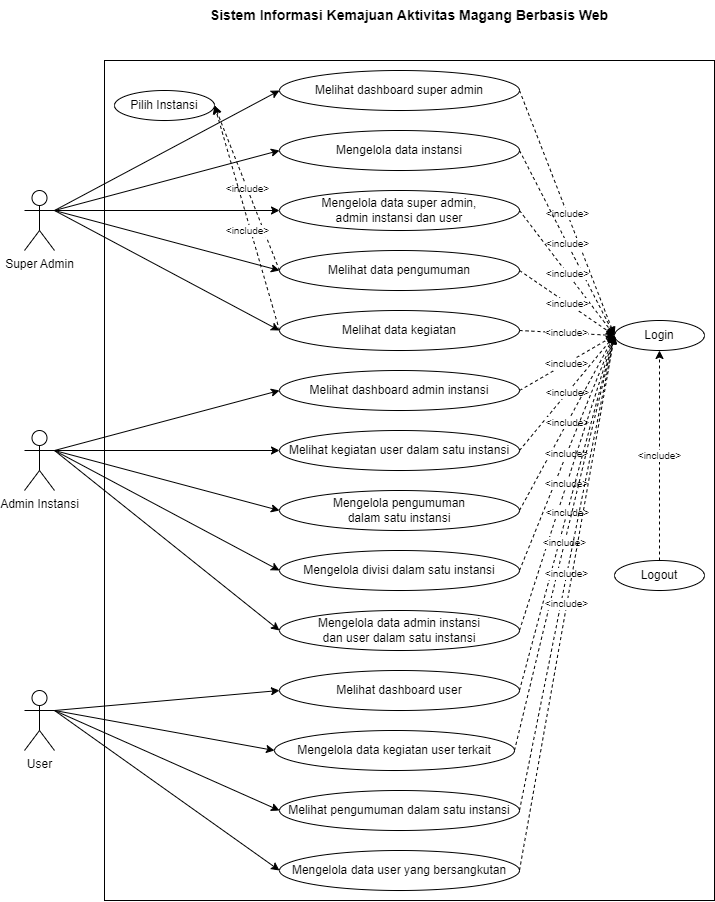
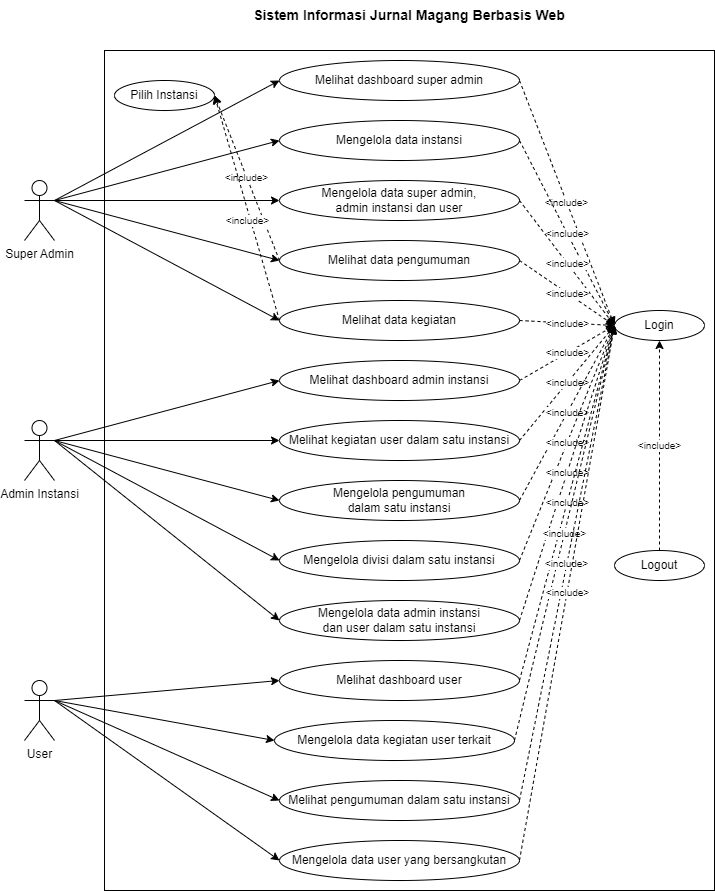
diagram and word selection commit

diff --git a/projek-01.md b/projek-01.md
@@ -1,6 +1,6 @@
-# Sistem Informasi Kemajuan Aktivitas Magang Berbasis Web
+# Sistem Informasi Jurnal Magang Berbasis Web
 
-<p align="justify">&nbsp;&nbsp;&nbsp;&nbsp;&nbsp;&nbsp;&nbsp;&nbsp;&nbsp;&nbsp;&nbsp;&nbsp;&nbsp;&nbsp;&nbsp;Projek Praktek Kerja Lapangan Sistem Informasi Kemajuan Aktivitas Magang Berbasis Web merupakan sebuah aplikasi yang didesain untuk memudahkan antara peserta magang, admin instansi terkait dan super admin dalam melakukan pencatatan kegiatan sehari-hari dalam bentuk digital. Sistem ini akan merekam kegiatan yang ditambahkan oleh peserta magang melalui logbook atau jurnal dan memberikan akses kepada admin instansi yang bersesuain dengan peserta tersebut untuk memantau progres setiap harinya.
+<p align="justify">&nbsp;&nbsp;&nbsp;&nbsp;&nbsp;&nbsp;&nbsp;&nbsp;&nbsp;&nbsp;&nbsp;&nbsp;&nbsp;&nbsp;&nbsp;Projek Praktek Kerja Lapangan Sistem Informasi Jurnal Magang Berbasis Web merupakan sebuah aplikasi yang didesain untuk memudahkan antara peserta magang, admin instansi terkait dan super admin dalam melakukan pencatatan kegiatan sehari-hari dalam bentuk digital. Sistem ini akan merekam kegiatan yang ditambahkan oleh peserta magang melalui logbook atau jurnal dan memberikan akses kepada admin instansi yang bersesuain dengan peserta tersebut untuk memantau progres setiap harinya.
 
 <p align="justify">&nbsp;&nbsp;&nbsp;&nbsp;&nbsp;&nbsp;&nbsp;&nbsp;&nbsp;&nbsp;Sistem ini menggunakan database untuk melakukan penyimpanan data diantaranya data user, instansi, divisi, kegiatan dan pengumuman. Setiap data tersebut ditampung ke dalam table-tabel yang saling berelasi. Tabel user berelasi dengan table user detail, user instansi detail dan kegiatan. Table user detail berelasi dengan table divisi, sedangkan table instansi berelasi dengan table pengumuman, user detail, user instansi detail dan divisi. Setiap table dalam database merepresentasikan sidebar menu yang dapat dilakukan pengelolaan oleh user dalam sistem. Untuk mendapatkan hak akses dalam pengelolaan data tersebut, user harus melakukan login terlebih dahulu menggunakan akun yang telah diverifikasi oleh admin instansi user tersebut berasal sehingga tidak semua user yang mendaftar dalam sistem dapat secara langsung masuk ke dalam web. Apabila data yang diinputkan ketika login benar, maka user tersebut akan diarahkan menuju ke dashboard dari level user tersebut yaitu super admin, admin instansi dan user. Super admin memiliki akses secara keseluruhan dalam sistem diantaranya mengelola data instansi, mengelola data super admin, admin instansi dan user, melihat data pengumuman dan melihat data kegiatan. Admin instansi memiliki wewenang untuk melihat kegiatan user dalam satu instansi, mengelola pengumuman dalam satu instansi, mengelola divisi dalam satu instansi dan mengelola data admin instansi dan user dalam instansi. User memiliki akses untuk mengelola data kegiatan user terkait, melihat pengumuman dalam satu instansi dan mengelola data user terkait. Tindakan pengelolaan meliputi kegiatan menambah, mengubah, melihat detail dan menghapus untuk setiap data yang tersimpan dalam database system. Aksi penghapusan data dilengkapi dengan alert untuk memastikan kembali apakah user ingin menghapus data secara permanen.</p>
 
@@ -18,7 +18,7 @@
 
 ## Struktur Tabel Database
 
-<p align="justify">&nbsp;&nbsp;&nbsp;&nbsp;&nbsp;&nbsp;&nbsp;&nbsp;&nbsp;&nbsp;&nbsp;&nbsp;&nbsp;&nbsp;&nbsp;Projek Praktek Kerja Lapangan Sistem Informasi Kemajuan Aktivitas Magang Berbasis Web didukung dengan database phpmyadmin yang akan menyimpan seluruh data dalam sistem. Data-data tersebut dikelompokkkan menjadi beberapa table. Dalam satu table hanya terdiri dari data yang memiliki attribute yang serupa, seperti table kegiatan hanya menampung data yang memiliki attribute user, tanggal, deskripsi dan foto. Perincian tiap table dijelaskan sebagai berikut</p>
+<p align="justify">&nbsp;&nbsp;&nbsp;&nbsp;&nbsp;&nbsp;&nbsp;&nbsp;&nbsp;&nbsp;&nbsp;&nbsp;&nbsp;&nbsp;&nbsp;Projek Praktek Kerja Lapangan Sistem Informasi Jurnal Magang Berbasis Web didukung dengan database phpmyadmin yang akan menyimpan seluruh data dalam sistem. Data-data tersebut dikelompokkkan menjadi beberapa table. Dalam satu table hanya terdiri dari data yang memiliki attribute yang serupa, seperti table kegiatan hanya menampung data yang memiliki attribute user, tanggal, deskripsi dan foto. Perincian tiap table dijelaskan sebagai berikut</p>
 
 1. Tabel User
 
@@ -53,7 +53,7 @@
 7. Tabel Kegiatan
 
    ![img_9](img/img_9.png)<br>
-   <p align="justify">Table kegiatan merupakan table yang digunakan untuk menampung data kegiatan yang dibuat oleh user dan dikirim kepada admin instansi. Atribut dalam tabel kegiatan diantaranya id_kegiatan yang merupakan primary key dalam tabel kegiatan ini, id_user foreign key dari tabel user, tanggal_kegiatan, deskripsi_kegiatan, foto, dan tipe_foto. Relasi tersebut digunakan untuk mengambii data yang berasal dari table lain dengan cara menambahkan attribute foreign key dalam table utama.</p>
+   <p align="justify">Table kegiatan merupakan table yang digunakan untuk menampung data kegiatan yang dibuat oleh user dan dikirim kepada admin instansi. Atribut dalam tabel kegiatan diantaranya id_kegiatan yang merupakan primary key dalam tabel kegiatan ini, id_user foreign key dari tabel user, tanggal_kegiatan, deskripsi_kegiatan, foto, dan tipe_foto. Relasi tersebut digunakan untuk mengambii data yang berasal dari table lain dengan cara menambahkan attribute foreign key dalam table utama.</p><br><br>
 
 ## User Interface
 
@@ -161,8 +161,8 @@
 5. Halaman User
 
    ![img_33](img/img_33.png)<br>
-   <p align="justify">Halaman ini menampilkan data user yang bersangkutan meliputi email, nip, nama, alamat, tanggal registrasi, foto, level, status dan aksi. Pada kolom aksi user dapat melakukan update data menggunakan button ubah dan memeriksa rincian data melalui button detil</p>
+   <p align="justify">Halaman ini menampilkan data user yang bersangkutan meliputi email, nip, nama, alamat, tanggal registrasi, foto, level, status dan aksi. Pada kolom aksi user dapat melakukan update data menggunakan button ubah dan memeriksa rincian data melalui button detil</p><br><br>
 
 ## Kesimpulan
 
-<p align="justify">&nbsp;&nbsp;&nbsp;&nbsp;&nbsp;&nbsp;&nbsp;&nbsp;&nbsp;&nbsp;&nbsp;&nbsp;&nbsp;&nbsp;&nbsp;Projek Praktek Kerja Lapangan Sistem Informasi Kemajuan Aktivitas Magang Berbasis Web merupakan aplikasi log aktivitas atau jurnal harian peserta magang untuk mendokumentasikan kegiatan yang telah dilakukan pada saat magang berlangsung. Secara garis besar terdapat tiga jenis pengguna yang dapat mengakses aplikasi ini yaitu super admin, admin instansi dan user. User dapat menambahkan aktivitas baru berupa deskripsi kegiatan dan lampiran foto kegiatan tersebut. Admin Instansi dapat melihat kegiatan user tersebut melalui website sehingga kegiatan yang dilakukan user dapat terpantau perkembangannya melalui log history kegiatan. Admin Instansi yang ingin mendaftarkan instansi asal dapat mengajukan registrasi instansi baru dan menunggu verifikasi dari super admin untuk mendapatkan akses ke dalam website, begitu pula verifikasi yang diberikan admin instansi kepada user ketika registrasi user baru. Berbagai kemudahan dapat dirasakan oleh semua pengguna dengan aplikasi ini ketika aktivitas yang dilakukan oleh user dapat terpantau secara digital dan real-time ketika user sedang melakukan akses pada website</p>
+<p align="justify">&nbsp;&nbsp;&nbsp;&nbsp;&nbsp;&nbsp;&nbsp;&nbsp;&nbsp;&nbsp;&nbsp;&nbsp;&nbsp;&nbsp;&nbsp;Projek Praktek Kerja Lapangan Sistem Informasi Jurnal Magang Berbasis Web merupakan aplikasi log aktivitas atau jurnal harian peserta magang untuk mendokumentasikan kegiatan yang telah dilakukan pada saat magang berlangsung. Secara garis besar terdapat tiga jenis pengguna yang dapat mengakses aplikasi ini yaitu super admin, admin instansi dan user. User dapat menambahkan aktivitas baru berupa deskripsi kegiatan dan lampiran foto kegiatan tersebut. Admin Instansi dapat melihat kegiatan user tersebut melalui website sehingga kegiatan yang dilakukan user dapat terpantau perkembangannya melalui log history kegiatan. Admin Instansi yang ingin mendaftarkan instansi asal dapat mengajukan registrasi instansi baru dan menunggu verifikasi dari super admin untuk mendapatkan akses ke dalam website, begitu pula verifikasi yang diberikan admin instansi kepada user ketika registrasi user baru. Berbagai kemudahan dapat dirasakan oleh semua pengguna dengan aplikasi ini ketika aktivitas yang dilakukan oleh user dapat terpantau secara digital dan real-time ketika user sedang melakukan akses pada website</p>
